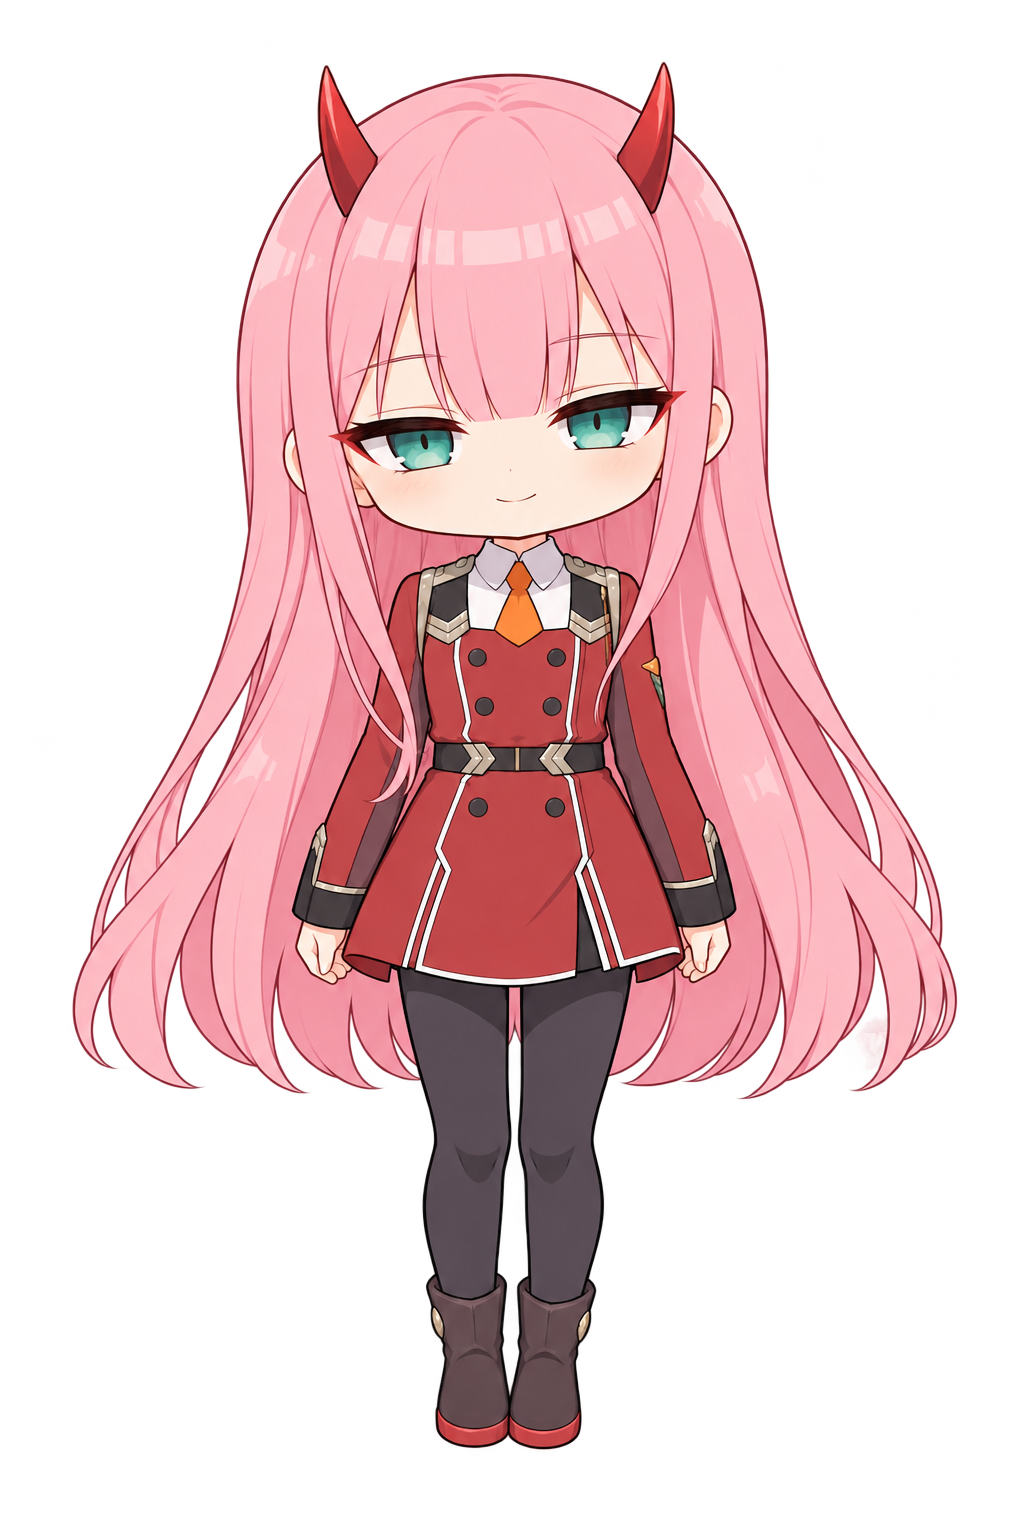
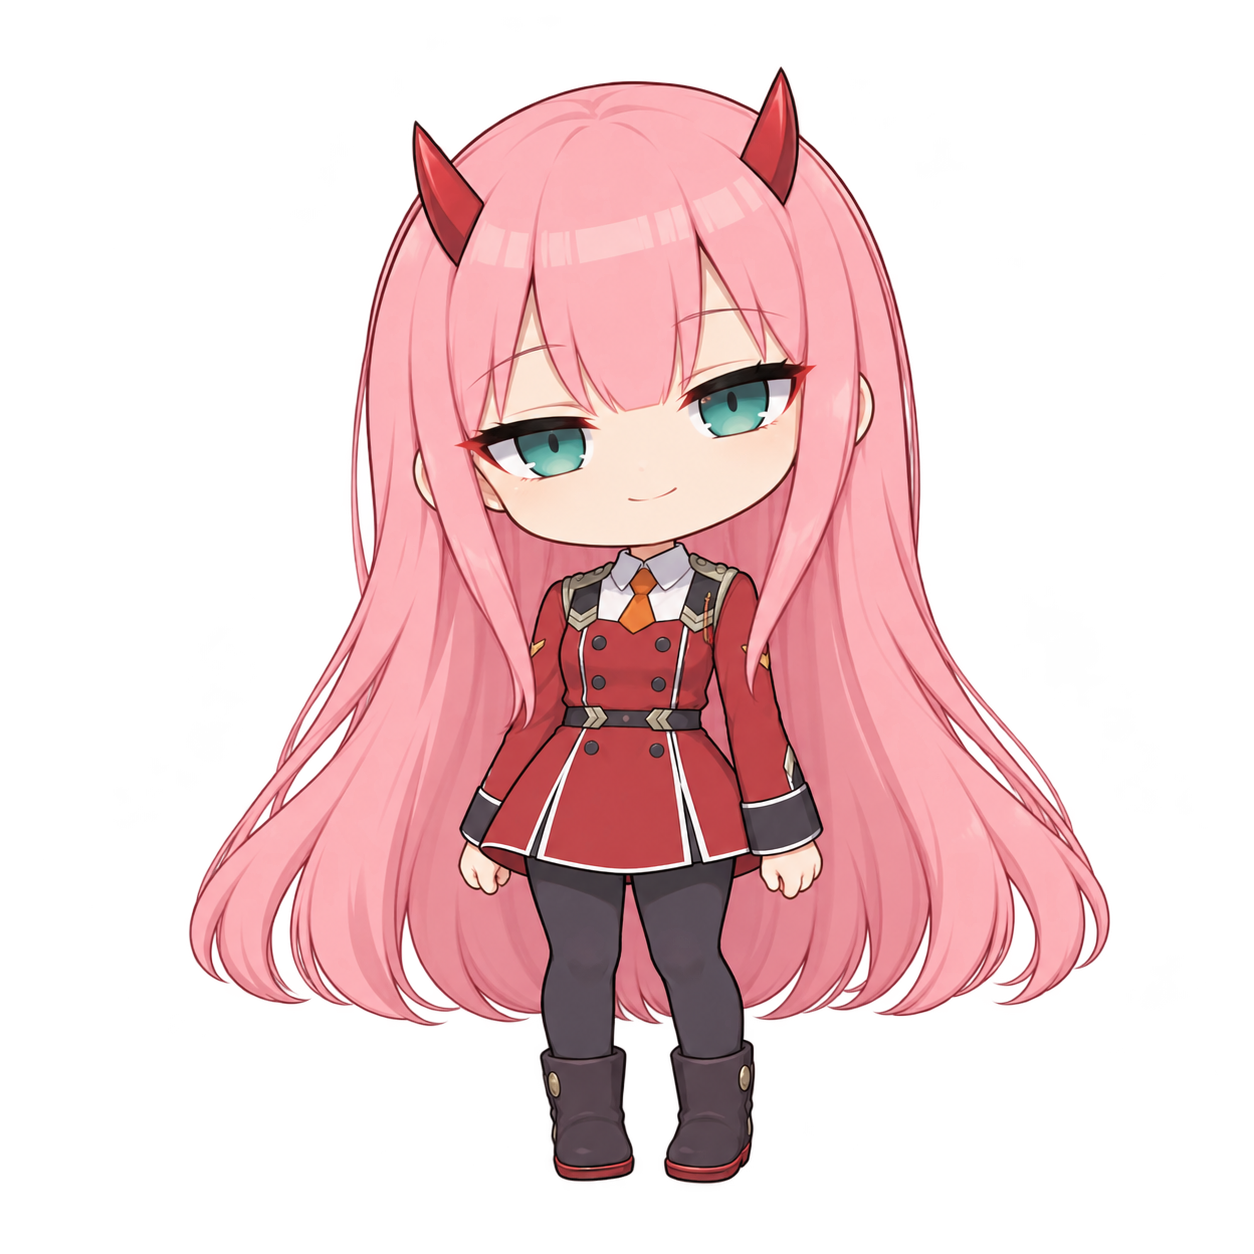
art: derive idle sprite from the activity model

diff --git a/assets/ARTWORK.md b/assets/ARTWORK.md
@@ -1,9 +1,9 @@
 # Character artwork
 
-The standing idle sprite (`zero-two-idle.png`) was updated with the built-in imagegen tool to match the shorter chibi face, half-lidded teal eyes and small mouth in the activity artwork. The edit references the previous idle image, `focus-desk.png`, and `poses.png`. The standing body and uniform remain the target composition. Sprite atlases are documented in `ANIMATIONS.md`; desk scenes are documented in `FOCUS-ARTWORK.md`.
+The current `zero-two-idle.png` was derived directly from the wave pose in row two, column three of `poses.png`, using the built-in imagegen tool. Both hands rest by her sides and both boots are planted; the activity model supplies the face, head-to-body proportions, slim uniform, hair, shading and linework. This replaces the separate taller standing design. The gallery includes idle alongside the activities for visual comparison.
 
-Zero Two and DARLING in the FRANXX belong to their respective rights holders. This is a personal fan project.
+Sprite atlases are documented in `ANIMATIONS.md`; desk scenes are documented in `FOCUS-ARTWORK.md`. Zero Two and DARLING in the FRANXX belong to their respective rights holders. This is a personal fan project.
 
 ## Final generation prompt
 
-Use case identity-preserve, targeted character consistency edit. Image1 is edit target standing idle sprite. Image2 desk activities and Image3 action poses are facial-model references. Update ONLY the standing character's face and head proportions to match the compact chibi face shared by the references, especially relaxed rest pose row1col3 in Image3 and writing face in Image2. Shorter lower face, small chin, shorter cheek-to-mouth distance, narrow half-lidded teal almond eyes with strong upper lashes, tiny restrained cheeky smile, straight pink fringe at eyebrows, subtle blush. Same character face model, not a different adult anime face. Keep the original slim standing body, outfit, uniform details, boots, hands, long hair length and overall silhouette, head location and canvas framing. Do not make body chubby or add props. Single full body front standing idle sprite, centered with entire horns and boots visible, portrait2:3. Genuine transparent alpha background including all space between limbs and hair. No pink glow, no halo, no gradient or shadow backdrop, no text, no extra sprites. Clean thin warm outline and soft anime cel shading matching the action poses.
+Use case: identity-preserve. Edit/extract an EXISTING character from this sprite atlas, do not redesign her. The edit target is the WAVING Zero Two sprite in ROW TWO, COLUMN THREE (4 columns x3 rows sheet). Produce ONE neutral standing idle sprite of that exact same character. Lower the waving arm so both hands rest naturally by her sides; place both boots on the same ground line. Preserve that sprite's EXACT chibi face, short cheek/chin shape, half-lidded teal eyes, small sly smile, pink bangs, red horns, head-to-body ratio, slim fitted torso, uniform details, short slim legs, boots, hair color and shading/linework. This must look like the very same animation model standing still between activities, not a taller more mature alternate design. Roughly2.5headheights total, head about40percent total character height, slim body NOT round or chubby. Long flowing pink hair as in the source pose. Front three-quarter view almost frontal, relaxed posture. One full-body sprite centered in a square canvas with8percent safe padding, every hair strand/horn/boot entirely inside frame. Genuine transparent alpha empty background, clean antialiased silhouette; no colored glow, haze, shadow backdrop, checkerboard, labels, text, borders, extra characters, props or sprite sheet.
